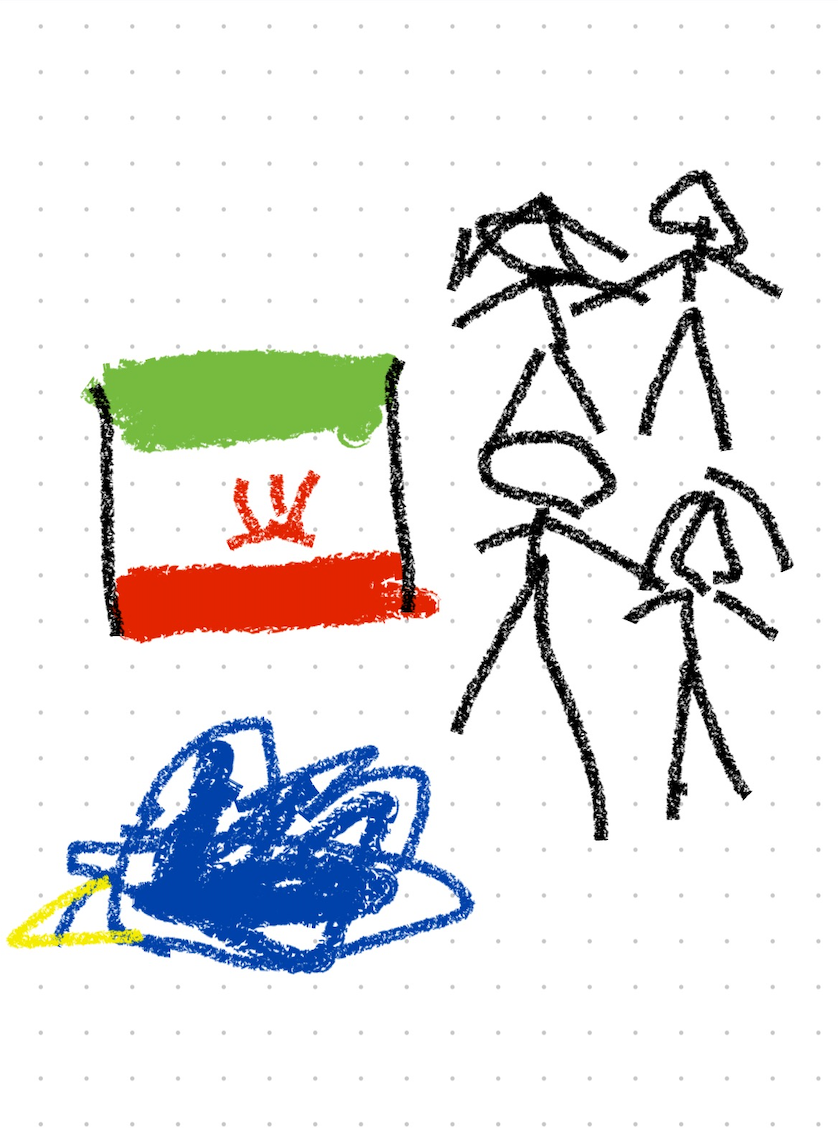
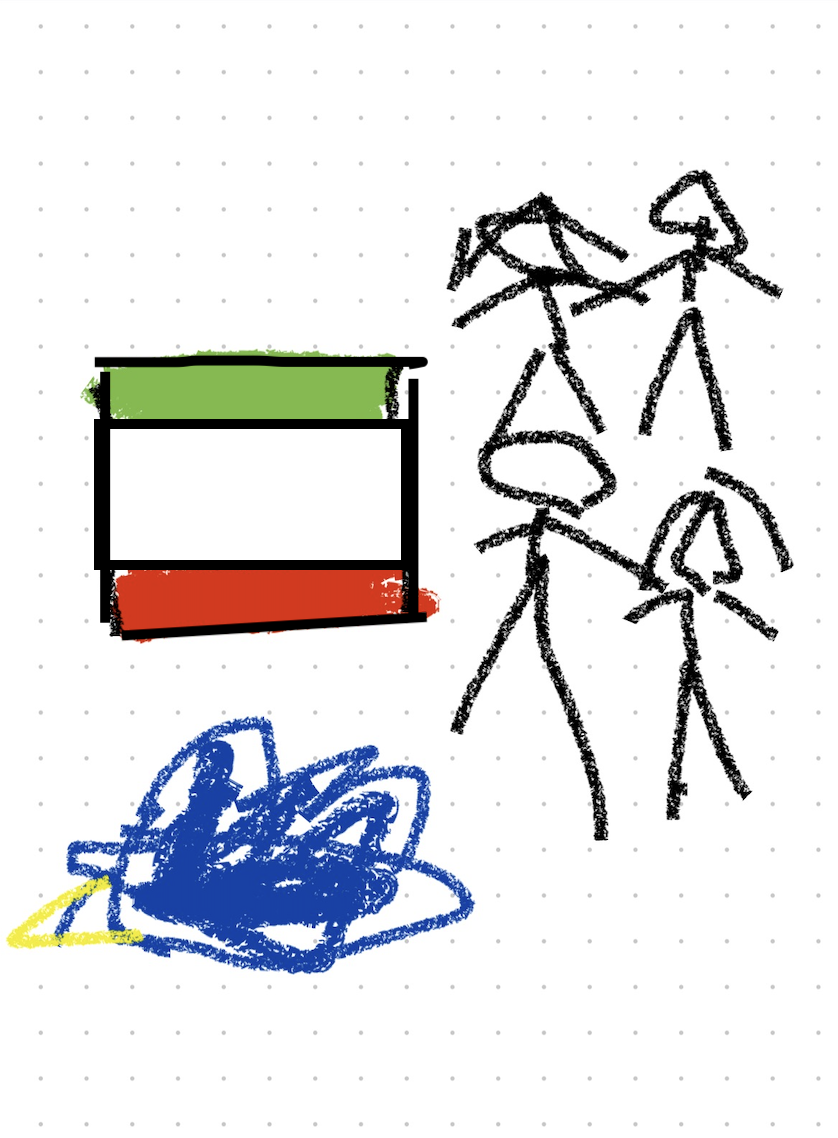
image addition

Changed region(s): [[0.0931, 0.3076, 0.5274, 0.5844], [0.0, 0.6459, 0.4654, 0.8612]]

diff --git a/index.md b/index.md
@@ -7,7 +7,7 @@ title: Student Blog
 ## Beijan's Page!
 
 ## My Freeform
-<!---<img src="image.png" alt="My freeform" hight="400" width="300">--->
+<img src="image.png" alt="My freeform" hight="400" width="300">
 
 ## About Me
 My name is Beijan Moniza. I am a 16 year old at Del Norte High School. I have a 13 year old sister, a mom and a dad in my family. I like playing the piano and hanging out with friends. My pair I am working with is Rayhan he is 15 years old.
